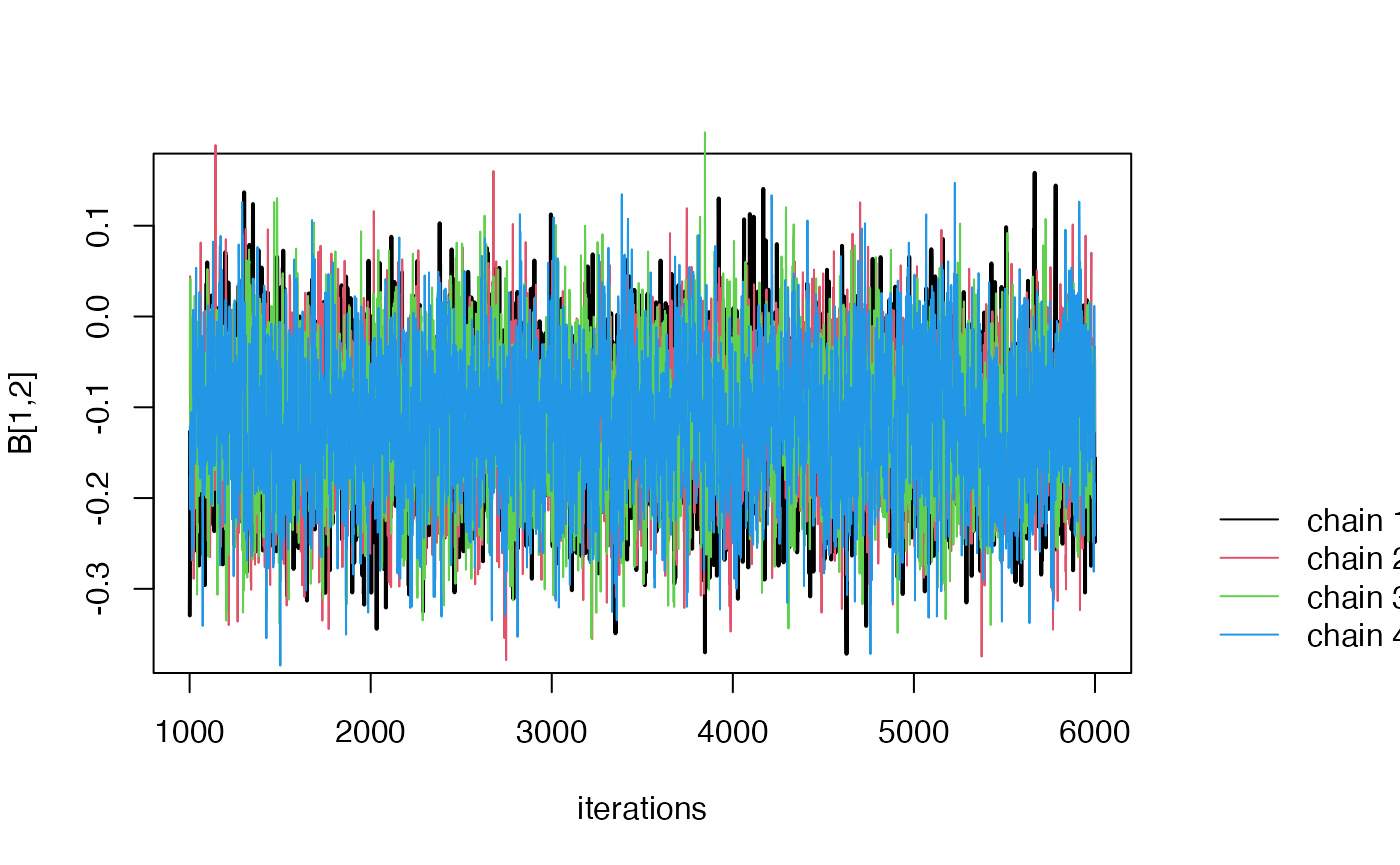
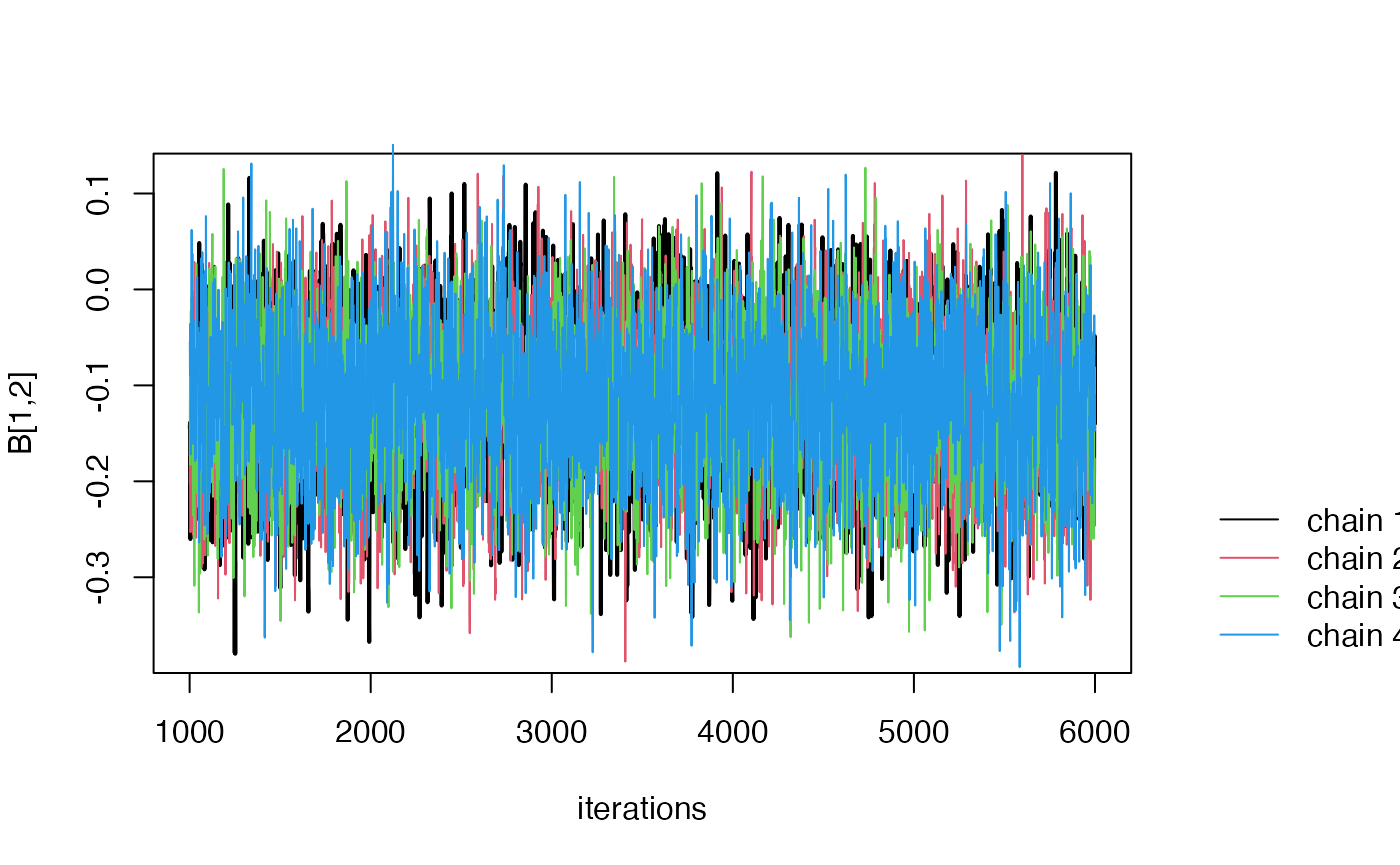
Update Tutorial

diff --git a/docs/articles/FLOW-MR-tutorial.html b/docs/articles/FLOW-MR-tutorial.html
@@ -60,9 +60,9 @@
 <div class="section level2">
 <h2 id="introduction">Introduction<a class="anchor" aria-label="anchor" href="#introduction"></a>
 </h2>
-<p>FLOW-MR is an R package for performing Mendelian Randomization under
-the mediation setting. This tutorial demonstrates how to use the package
-step by step.</p>
+<p><code>FLOW-MR</code> is an R package for performing Mendelian
+Randomization under the mediation setting. This tutorial demonstrates
+how to use the package step by step.</p>
 </div>
 <div class="section level2">
 <h2 id="installation">Installation<a class="anchor" aria-label="anchor" href="#installation"></a>
@@ -70,15 +70,12 @@ step by step.</p>
 <div class="sourceCode" id="cb1"><pre class="downlit sourceCode r">
 <code class="sourceCode R"><span><span class="co"># Install devtools if not installed</span></span>
 <span><span class="fu"><a href="https://rdrr.io/r/utils/install.packages.html" class="external-link">install.packages</a></span><span class="op">(</span><span class="st">"devtools"</span><span class="op">)</span></span>
-<span><span class="co">#&gt; Installing package into '/private/var/folders/1p/kyg0zmtx4gdg27q_5x4d78fc0000gn/T/RtmpMnRMVQ/temp_libpath4da03610fba6'</span></span>
-<span><span class="co">#&gt; (as 'lib' is unspecified)</span></span>
 <span><span class="co">#&gt; </span></span>
 <span><span class="co">#&gt; The downloaded binary packages are in</span></span>
-<span><span class="co">#&gt;  /var/folders/1p/kyg0zmtx4gdg27q_5x4d78fc0000gn/T//Rtmp4E55Rr/downloaded_packages</span></span>
+<span><span class="co">#&gt;  /var/folders/1p/kyg0zmtx4gdg27q_5x4d78fc0000gn/T//Rtmpf3uGBd/downloaded_packages</span></span>
 <span></span>
 <span><span class="co"># Install FLOW-MR</span></span>
 <span><span class="fu">devtools</span><span class="fu">::</span><span class="fu"><a href="https://remotes.r-lib.org/reference/install_github.html" class="external-link">install_github</a></span><span class="op">(</span><span class="st">"ZixuanWu1/FLOW-MR"</span><span class="op">)</span></span>
-<span><span class="co">#&gt; Downloading GitHub repo ZixuanWu1/FLOW-MR@HEAD</span></span>
 <span><span class="co">#&gt; rlang        (1.1.4    -&gt; 1.1.5   ) [CRAN]</span></span>
 <span><span class="co">#&gt; cli          (3.6.3    -&gt; 3.6.4   ) [CRAN]</span></span>
 <span><span class="co">#&gt; pillar       (1.9.0    -&gt; 1.10.1  ) [CRAN]</span></span>
@@ -87,14 +84,11 @@ step by step.</p>
 <span><span class="co">#&gt; withr        (3.0.1    -&gt; 3.0.2   ) [CRAN]</span></span>
 <span><span class="co">#&gt; gtable       (0.3.5    -&gt; 0.3.6   ) [CRAN]</span></span>
 <span><span class="co">#&gt; RcppArmad... (14.0.2-1 -&gt; 14.2.3-1) [CRAN]</span></span>
-<span><span class="co">#&gt; Installing 8 packages: rlang, cli, pillar, R6, Rcpp, withr, gtable, RcppArmadillo</span></span>
-<span><span class="co">#&gt; Installing packages into '/private/var/folders/1p/kyg0zmtx4gdg27q_5x4d78fc0000gn/T/RtmpMnRMVQ/temp_libpath4da03610fba6'</span></span>
-<span><span class="co">#&gt; (as 'lib' is unspecified)</span></span>
 <span><span class="co">#&gt; </span></span>
 <span><span class="co">#&gt; The downloaded binary packages are in</span></span>
-<span><span class="co">#&gt;  /var/folders/1p/kyg0zmtx4gdg27q_5x4d78fc0000gn/T//Rtmp4E55Rr/downloaded_packages</span></span>
+<span><span class="co">#&gt;  /var/folders/1p/kyg0zmtx4gdg27q_5x4d78fc0000gn/T//Rtmpf3uGBd/downloaded_packages</span></span>
 <span><span class="co">#&gt; <span style="color: #00BBBB;">──</span> <span style="color: #00BBBB;">R CMD build</span> <span style="color: #00BBBB;">─────────────────────────────────────────────────────────────────</span></span></span>
-<span><span class="co">#&gt; * checking for file ‘/private/var/folders/1p/kyg0zmtx4gdg27q_5x4d78fc0000gn/T/Rtmp4E55Rr/remotes52aa58892cdb/ZixuanWu1-FLOW-MR-2d061a7/DESCRIPTION’ ... OK</span></span>
+<span><span class="co">#&gt; * checking for file ‘/private/var/folders/1p/kyg0zmtx4gdg27q_5x4d78fc0000gn/T/Rtmpf3uGBd/remotes5de17e4f3ecf/ZixuanWu1-FLOW-MR-fd995e0/DESCRIPTION’ ... OK</span></span>
 <span><span class="co">#&gt; * preparing ‘FLOWMR’:</span></span>
 <span><span class="co">#&gt; * checking DESCRIPTION meta-information ... OK</span></span>
 <span><span class="co">#&gt; * cleaning src</span></span>
@@ -128,17 +122,13 @@ step by step.</p>
 <span><span class="co">#&gt; * cleaning src</span></span>
 <span><span class="co">#&gt; * checking for LF line-endings in source and make files and shell scripts</span></span>
 <span><span class="co">#&gt; * checking for empty or unneeded directories</span></span>
-<span><span class="co">#&gt; * building ‘FLOWMR_1.0.tar.gz’</span></span>
-<span><span class="co">#&gt; Installing package into '/private/var/folders/1p/kyg0zmtx4gdg27q_5x4d78fc0000gn/T/RtmpMnRMVQ/temp_libpath4da03610fba6'</span></span>
-<span><span class="co">#&gt; (as 'lib' is unspecified)</span></span></code></pre></div>
+<span><span class="co">#&gt; * building ‘FLOWMR_1.0.tar.gz’</span></span></code></pre></div>
 </div>
 <div class="section level2">
 <h2 id="load-the-package">Load the Package<a class="anchor" aria-label="anchor" href="#load-the-package"></a>
 </h2>
 <div class="sourceCode" id="cb2"><pre class="downlit sourceCode r">
-<code class="sourceCode R"><span><span class="kw"><a href="https://rdrr.io/r/base/library.html" class="external-link">library</a></span><span class="op">(</span><span class="va">FLOWMR</span><span class="op">)</span></span>
-<span><span class="kw"><a href="https://rdrr.io/r/base/library.html" class="external-link">library</a></span><span class="op">(</span><span class="va"><a href="https://github.com/RobinHankin/magic" class="external-link">magic</a></span><span class="op">)</span></span>
-<span><span class="co">#&gt; Loading required package: abind</span></span></code></pre></div>
+<code class="sourceCode R"><span><span class="kw"><a href="https://rdrr.io/r/base/library.html" class="external-link">library</a></span><span class="op">(</span><span class="va">FLOWMR</span><span class="op">)</span></span></code></pre></div>
 </div>
 <div class="section level2">
 <h2 id="example-usage">Example Usage<a class="anchor" aria-label="anchor" href="#example-usage"></a>
@@ -146,24 +136,26 @@ step by step.</p>
 <div class="section level3">
 <h3 id="step-1-prepare-input-data">Step 1: Prepare Input Data<a class="anchor" aria-label="anchor" href="#step-1-prepare-input-data"></a>
 </h3>
-<p>Here we use GRAPPLE read the preprocess the input data. One can
-downlaod the GRAPPLE package using the following command.</p>
+<p>Here, we use <code>GRAPPLE</code> to preprocess the input data. We
+can download the <code>GRAPPLE</code> package using the following
+command:</p>
 <div class="sourceCode" id="cb3"><pre class="downlit sourceCode r">
-<code class="sourceCode R"><span><span class="fu">devtools</span><span class="fu">::</span><span class="fu"><a href="https://remotes.r-lib.org/reference/install_github.html" class="external-link">install_github</a></span><span class="op">(</span><span class="st">"jingshuw/grapple"</span><span class="op">)</span></span>
-<span><span class="co">#&gt; Skipping install of 'GRAPPLE' from a github remote, the SHA1 (317e8373) has not changed since last install.</span></span>
-<span><span class="co">#&gt;   Use `force = TRUE` to force installation</span></span></code></pre></div>
-<p>Then we can use GPAPPLE to pre-process Data. We follow a three-sample
-MR design here. The sel.file will be used to select genome-wide
-significant SNPs. The exp.file contains exposures of interests. The
-out.file contains the outcome of interests. For more details, see <a href="https://github.com/jingshuw/GRAPPLE" class="external-link uri">https://github.com/jingshuw/GRAPPLE</a>.</p>
-<p>In this example we use adult BMI from GIANT and childhoood BMI from
-egg as selections files. We use chilldhood body size and bmi adult from
-UK biobank as exposures, and Breast Cancer from Micha as outcome.</p>
+<code class="sourceCode R"><span><span class="fu">devtools</span><span class="fu">::</span><span class="fu"><a href="https://remotes.r-lib.org/reference/install_github.html" class="external-link">install_github</a></span><span class="op">(</span><span class="st">"jingshuw/grapple"</span><span class="op">)</span></span></code></pre></div>
+<p>Next, we use <code>GRAPPLE</code> to preprocess the data following a
+three-sample Mendelian Randomization (MR) design. The sel.file is used
+to select genome-wide significant SNPs, the exp.file contains the
+exposures of interest, and the out.file contains the outcomes of
+interest. For more details, visit <a href="https://github.com/jingshuw/GRAPPLE" class="external-link">GRAPPLE</a> on GitHub.</p>
+<p>In this example we use adult BMI from <a href="https://portals.broadinstitute.org/collaboration/giant/index.php/GIANT_consortium_data_files" class="external-link">GIANT</a>
+and childhoood BMI from <a href="http://egg-consortium.org" class="external-link">EGG</a> as
+selections files. We use childhood body size and bmi adult from <a href="https://www.nealelab.is/uk-biobank" class="external-link">UK biobank</a> as exposures,
+and Breast Cancer from this <a href="https://pubmed.ncbi.nlm.nih.gov/29059683" class="external-link">paper</a> as
+outcome.</p>
 <div class="sourceCode" id="cb4"><pre class="downlit sourceCode r">
 <code class="sourceCode R"><span><span class="kw"><a href="https://rdrr.io/r/base/library.html" class="external-link">library</a></span><span class="op">(</span><span class="va">GRAPPLE</span><span class="op">)</span></span>
 <span></span>
 <span><span class="co"># Selection file of snps</span></span>
-<span><span class="va">sel.file</span> <span class="op">&lt;-</span> <span class="fu"><a href="https://rdrr.io/r/base/c.html" class="external-link">c</a></span><span class="op">(</span><span class="st">"~/Downloads/research/BMI-giant17eu.csv"</span>, <span class="st">"~/Downloads/research/bmi_child_agg.csv"</span> <span class="op">)</span></span>
+<span><span class="va">sel.file</span> <span class="op">&lt;-</span> <span class="fu"><a href="https://rdrr.io/r/base/c.html" class="external-link">c</a></span><span class="op">(</span><span class="st">"~/Downloads/research/BMI-giant17eu.csv"</span>, <span class="st">"~/Downloads/research/bmi_child_egg.csv"</span> <span class="op">)</span></span>
 <span></span>
 <span><span class="co"># Exposure file</span></span>
 <span><span class="va">exp.file</span> <span class="op">&lt;-</span> <span class="fu"><a href="https://rdrr.io/r/base/c.html" class="external-link">c</a></span><span class="op">(</span> <span class="st">"~/Downloads/research/childhood_body_size.csv"</span>,<span class="st">"~/Downloads/research/BMI_adult.csv"</span> <span class="op">)</span></span>
@@ -180,25 +172,19 @@ UK biobank as exposures, and Breast Cancer from Micha as outcome.</p>
 <span>                               plink_exe <span class="op">=</span> <span class="st">"~/Downloads/research/plink_mac_20210606/plink"</span>, cal.cor <span class="op">=</span> <span class="cn">T</span><span class="op">)</span></span>
 <span><span class="co">#&gt; [1] "Marker candidates will not be obtained as number of risk factors k &gt; 1"</span></span>
 <span><span class="co">#&gt; [1] "loading data for selection: ~/Downloads/research/BMI-giant17eu.csv ..."</span></span>
-<span><span class="co">#&gt; [1] "loading data for selection: ~/Downloads/research/bmi_child_agg.csv ..."</span></span>
+<span><span class="co">#&gt; [1] "loading data for selection: ~/Downloads/research/bmi_child_egg.csv ..."</span></span>
 <span><span class="co">#&gt; [1] "loading data from exposure: ~/Downloads/research/childhood_body_size.csv ..."</span></span>
 <span><span class="co">#&gt; [1] "loading data from exposure: ~/Downloads/research/BMI_adult.csv ..."</span></span>
-<span><span class="co">#&gt; Warning in harmonise_cleanup_variables(res.tab): NAs introduced by coercion</span></span>
 <span><span class="co">#&gt; [1] "loading data from outcome: ~/Downloads/research/Breast-Micha17erp.csv ..."</span></span>
 <span><span class="co">#&gt; [1] "Start clumping using PLINK ..."</span></span>
-<span><span class="co">#&gt; Loading required package: data.table</span></span>
-<span><span class="co">#&gt; </span></span>
-<span><span class="co">#&gt; Attaching package: 'data.table'</span></span>
-<span><span class="co">#&gt; The following object is masked from 'package:magic':</span></span>
-<span><span class="co">#&gt; </span></span>
-<span><span class="co">#&gt;     shift</span></span>
 <span><span class="co">#&gt; [1] "813 independent genetic instruments extracted. Done!"</span></span></code></pre></div>
 </div>
 <div class="section level3">
 <h3 id="step-2-run-flow-mr">Step 2: Run FLOW-MR<a class="anchor" aria-label="anchor" href="#step-2-run-flow-mr"></a>
 </h3>
-<p>In order to run FLOW-MR, we need to prepare two input files Gamma_hat
-and Sd_hat, with the reversed time order</p>
+<p>To run FLOW-MR, we need to prepare two input files,
+<code>Gamma_hat</code> and <code>Sd_hat</code>. Also ensuring that the
+time order is reversed:</p>
 <div class="sourceCode" id="cb5"><pre class="downlit sourceCode r">
 <code class="sourceCode R"><span><span class="va">dat</span> <span class="op">&lt;-</span><span class="va">data.list</span><span class="op">$</span><span class="va">data</span>;</span>
 <span></span>
@@ -212,51 +198,53 @@ and Sd_hat, with the reversed time order</p>
 <span>               <span class="va">dat</span><span class="op">$</span><span class="va">se_exp1</span><span class="op">)</span></span>
 <span></span>
 <span><span class="va">result</span> <span class="op">=</span> <span class="fu"><a href="../reference/BayesMediation.html">BayesMediation</a></span><span class="op">(</span><span class="va">Gamma_hat</span>, <span class="va">Sd_hat</span>, cor <span class="op">=</span> <span class="va">data.list</span><span class="op">$</span><span class="va">cor.mat</span><span class="op">)</span></span>
-<span><span class="co">#&gt; [1] "2025-03-11 16:00:24 CDT"</span></span>
-<span><span class="co">#&gt; [1] "2025-03-11 16:04:49 CDT"</span></span></code></pre></div>
+<span><span class="co">#&gt; [1] "2025-03-11 16:49:11 CDT"</span></span>
+<span><span class="co">#&gt; [1] "2025-03-11 16:53:40 CDT"</span></span></code></pre></div>
 </div>
 <div class="section level3">
 <h3 id="step-3-look-at-summary-of-direct-effects">Step 3: Look at summary of direct effects<a class="anchor" aria-label="anchor" href="#step-3-look-at-summary-of-direct-effects"></a>
 </h3>
-<p>Here we print the results of direct effects. Here each row
+<p>In this step, we print the summary of direct effects, where each row
 corresponds to a parameter.</p>
 <div class="sourceCode" id="cb6"><pre class="downlit sourceCode r">
 <code class="sourceCode R"><span><span class="fu"><a href="https://rdrr.io/r/base/print.html" class="external-link">print</a></span><span class="op">(</span><span class="va">result</span><span class="op">$</span><span class="va">summary</span><span class="op">)</span></span>
 <span><span class="co">#&gt;                   mean          var           sd         2.5%          50%</span></span>
-<span><span class="co">#&gt; B[1,2]    -0.115401772 5.448561e-03 0.0738143712 -0.258989540 -0.116772516</span></span>
-<span><span class="co">#&gt; B[1,3]    -0.349770699 5.952166e-03 0.0771502819 -0.500633472 -0.349542650</span></span>
-<span><span class="co">#&gt; B[2,3]     1.486012961 3.012862e-03 0.0548895398  1.379180578  1.485076322</span></span>
-<span><span class="co">#&gt; sigma      0.628870999 2.492000e-02 0.1578606978  0.401412398  0.602327181</span></span>
-<span><span class="co">#&gt; sigma1[1]  0.026220009 1.481295e-05 0.0038487602  0.020126852  0.025717490</span></span>
-<span><span class="co">#&gt; sigma1[2]  0.017487449 1.948333e-05 0.0044139927  0.012229485  0.016493869</span></span>
-<span><span class="co">#&gt; sigma1[3]  0.016801650 3.714487e-06 0.0019273004  0.013572255  0.016607753</span></span>
-<span><span class="co">#&gt; sigma0[1]  0.004338455 4.794462e-07 0.0006924205  0.003051686  0.004335923</span></span>
-<span><span class="co">#&gt; sigma0[2]  0.005943455 1.255415e-07 0.0003543183  0.005210316  0.005962192</span></span>
-<span><span class="co">#&gt; sigma0[3]  0.003752879 3.762381e-08 0.0001939686  0.003359107  0.003755688</span></span>
-<span><span class="co">#&gt; p[1]       0.082905498 6.439988e-04 0.0253771313  0.039889868  0.080771651</span></span>
-<span><span class="co">#&gt; p[2]       0.039106441 6.894864e-04 0.0262580725  0.004218164  0.033979817</span></span>
-<span><span class="co">#&gt; p[3]       0.097005043 5.063891e-04 0.0225030909  0.058734997  0.095202473</span></span>
-<span><span class="co">#&gt;                  97.5%        ESS      Rhat</span></span>
-<span><span class="co">#&gt; B[1,2]     0.027441284  3061.5942 0.9999838</span></span>
-<span><span class="co">#&gt; B[1,3]    -0.200982185  3461.0723 1.0000514</span></span>
-<span><span class="co">#&gt; B[2,3]     1.598052519   513.6869 1.0004185</span></span>
-<span><span class="co">#&gt; sigma      1.013003886 11825.9652 1.0002782</span></span>
-<span><span class="co">#&gt; sigma1[1]  0.035130218  1068.4865 1.0006927</span></span>
-<span><span class="co">#&gt; sigma1[2]  0.028499099   969.3300 1.0021815</span></span>
-<span><span class="co">#&gt; sigma1[3]  0.020997320  1747.6425 1.0005458</span></span>
-<span><span class="co">#&gt; sigma0[1]  0.005677666   157.8393 1.0052341</span></span>
-<span><span class="co">#&gt; sigma0[2]  0.006592855   570.3329 1.0030456</span></span>
-<span><span class="co">#&gt; sigma0[3]  0.004127756  1181.4439 1.0010404</span></span>
-<span><span class="co">#&gt; p[1]       0.137895782   605.1173 1.0011770</span></span>
-<span><span class="co">#&gt; p[2]       0.101026303   309.4166 1.0067154</span></span>
-<span><span class="co">#&gt; p[3]       0.145622044  1012.3245 1.0002989</span></span></code></pre></div>
-<p>For instance B[1, 2] represents the effect of adult BMI on breast
-cancer, B[1, 3] represents the direct effect of childhood BMI on breast
-cancer, and B[2, 3] represents the direct effect of childhood BMI on
-Adult BMI. The ESS represents the effective sample size, and Rhat is the
-Gelman-Rubin statistics</p>
-<p>In case of non-convergence (such as large Rhat), one can use the
-following command to see traceplot of posterior samples</p>
+<span><span class="co">#&gt; B[1,2]    -0.116013046 5.583371e-03 0.0747219594 -0.262800074 -0.115312478</span></span>
+<span><span class="co">#&gt; B[1,3]    -0.347019277 6.037359e-03 0.0777004472 -0.498291771 -0.346808605</span></span>
+<span><span class="co">#&gt; B[2,3]     1.487201135 2.560552e-03 0.0506018999  1.392991837  1.485736521</span></span>
+<span><span class="co">#&gt; sigma      0.625067022 2.527243e-02 0.1589730406  0.398531911  0.596673615</span></span>
+<span><span class="co">#&gt; sigma1[1]  0.026199918 1.469070e-05 0.0038328453  0.020154152  0.025735267</span></span>
+<span><span class="co">#&gt; sigma1[2]  0.017721715 2.127148e-05 0.0046121015  0.012128036  0.016718624</span></span>
+<span><span class="co">#&gt; sigma1[3]  0.016862286 3.692366e-06 0.0019215531  0.013698771  0.016671738</span></span>
+<span><span class="co">#&gt; sigma0[1]  0.004322491 4.941584e-07 0.0007029640  0.003038105  0.004286020</span></span>
+<span><span class="co">#&gt; sigma0[2]  0.005956700 1.347499e-07 0.0003670830  0.005181163  0.005982763</span></span>
+<span><span class="co">#&gt; sigma0[3]  0.003759160 3.405266e-08 0.0001845336  0.003396733  0.003758181</span></span>
+<span><span class="co">#&gt; p[1]       0.082793227 6.620370e-04 0.0257300806  0.038708235  0.080481305</span></span>
+<span><span class="co">#&gt; p[2]       0.037962714 7.740770e-04 0.0278222385  0.003715808  0.032109316</span></span>
+<span><span class="co">#&gt; p[3]       0.096484909 4.691556e-04 0.0216599990  0.058502077  0.094857995</span></span>
+<span><span class="co">#&gt;                  97.5%       ESS     Rhat</span></span>
+<span><span class="co">#&gt; B[1,2]     0.028453644 2930.9141 1.000934</span></span>
+<span><span class="co">#&gt; B[1,3]    -0.195530998 3455.7901 1.000583</span></span>
+<span><span class="co">#&gt; B[2,3]     1.586598370  607.1188 1.008644</span></span>
+<span><span class="co">#&gt; sigma      1.016728378 9113.4746 1.000208</span></span>
+<span><span class="co">#&gt; sigma1[1]  0.034875562 1062.9150 1.003855</span></span>
+<span><span class="co">#&gt; sigma1[2]  0.029443998  912.5192 1.005317</span></span>
+<span><span class="co">#&gt; sigma1[3]  0.021158295 1649.9614 1.000860</span></span>
+<span><span class="co">#&gt; sigma0[1]  0.005767657  151.7050 1.014063</span></span>
+<span><span class="co">#&gt; sigma0[2]  0.006603531  458.6894 1.010371</span></span>
+<span><span class="co">#&gt; sigma0[3]  0.004118526 1229.9939 1.001423</span></span>
+<span><span class="co">#&gt; p[1]       0.138746490  543.0026 1.007833</span></span>
+<span><span class="co">#&gt; p[2]       0.107293435  334.8917 1.012843</span></span>
+<span><span class="co">#&gt; p[3]       0.143186812 1003.0891 1.001751</span></span></code></pre></div>
+<p>For example, <code>B[1,2]</code> represents the effect of adult BMI
+on breast cancer, <code>B[1,3]</code> represents the
+d<code>irect effect of childhood BMI on breast cancer, and</code>B[2,3]<code>represents the direct effect of childhood BMI on adult BMI. The</code>ESS
+(Effective Sample Size) quantifies the number of independent samples,
+while <code>Rhat</code> (the Gelman-Rubin statistic) assesses
+convergence.</p>
+<p>If non-convergence issues arise (e.g., a large <code>Rhat</code>
+value), you can use the following command to generate a trace plot of
+the posterior samples:</p>
 <div class="sourceCode" id="cb7"><pre class="downlit sourceCode r">
 <code class="sourceCode R"><span><span class="fu">FLOWMR</span><span class="fu">::</span><span class="fu"><a href="../reference/traceplot.html">traceplot</a></span><span class="op">(</span><span class="va">result</span><span class="op">$</span><span class="va">raw</span>, par <span class="op">=</span> <span class="st">"B"</span>, ind <span class="op">=</span> <span class="fu"><a href="https://rdrr.io/r/base/c.html" class="external-link">c</a></span><span class="op">(</span><span class="fl">1</span>,<span class="fl">2</span><span class="op">)</span><span class="op">)</span></span></code></pre></div>
 <p><img src="FLOW-MR-tutorial_files/figure-html/unnamed-chunk-7-1.png" width="700"></p>
@@ -264,21 +252,21 @@ following command to see traceplot of posterior samples</p>
 <div class="section level3">
 <h3 id="step-4">Step 4<a class="anchor" aria-label="anchor" href="#step-4"></a>
 </h3>
-<p>One can use the following command to get path-wise effect. For
-example here we look at the path childhood BMI -&gt; Adult BMI -&gt;
-Breast Cancer</p>
+<p>To estimate path-wise effects, use the following command. For
+example, the code below evaluates the indirect effect of childhood BMI
+on breast cancer through adult BMI:</p>
 <div class="sourceCode" id="cb8"><pre class="downlit sourceCode r">
 <code class="sourceCode R"><span><span class="va">path_effect</span> <span class="op">=</span> <span class="fu"><a href="../reference/indirect_effect.html">indirect_effect</a></span><span class="op">(</span><span class="va">result</span><span class="op">$</span><span class="va">raw</span>, K <span class="op">=</span> <span class="fl">3</span>, path <span class="op">=</span> <span class="fu"><a href="https://rdrr.io/r/base/c.html" class="external-link">c</a></span><span class="op">(</span><span class="fl">3</span>,<span class="fl">2</span>,<span class="fl">1</span><span class="op">)</span>,  warmup <span class="op">=</span> <span class="fl">3000</span><span class="op">)</span></span>
 <span><span class="fu"><a href="https://rdrr.io/r/base/print.html" class="external-link">print</a></span><span class="op">(</span><span class="va">path_effect</span><span class="op">)</span></span>
 <span><span class="co">#&gt;         Mean       2.5%        50%      97.5%</span></span>
-<span><span class="co">#&gt; 1 -0.1713112 -0.3853506 -0.1726248 0.04051449</span></span></code></pre></div>
+<span><span class="co">#&gt; 1 -0.1723755 -0.3898596 -0.1713084 0.04273244</span></span></code></pre></div>
 </div>
 </div>
 <div class="section level2">
 <h2 id="conclusion">Conclusion<a class="anchor" aria-label="anchor" href="#conclusion"></a>
 </h2>
-<p>This tutorial introduced the key functionalities of FLOW-MR. For
-further details, visit the package documentation.</p>
+<p>This tutorial introduced the key functionalities of FLOW-MR. For more
+details, refer to the package documentation.</p>
 </div>
   </main><aside class="col-md-3"><nav id="toc" aria-label="Table of contents"><h2>On this page</h2>
     </nav></aside>

diff --git a/docs/index.html b/docs/index.html
@@ -48,6 +48,8 @@
 <div class="page-header"><h1 id="flow-mr">FLOW-MR<a class="anchor" aria-label="anchor" href="#flow-mr"></a>
 </h1></div>
 <p>This is the R package for FLOW-MR, a Bayesian framework for Mendelian Randomization in the mediation setting.</p>
+<p>For details of the FLOW-MR framework, please refer to our <a href="https://www.biorxiv.org/content/biorxiv/early/2024/02/12/2024.02.10.579129.full.pdf" class="external-link">manuscript</a>.</p>
+<p>Here we give a brief description of the method. Check <a href="https://ZixuanWu1.github.io/FLOW-MR/articles/FLOW-MR-tutorial.html">tutorial</a> for the complete workflow.</p>
 <div class="section level2">
 <h2 id="installation">Installation<a class="anchor" aria-label="anchor" href="#installation"></a>
 </h2>
